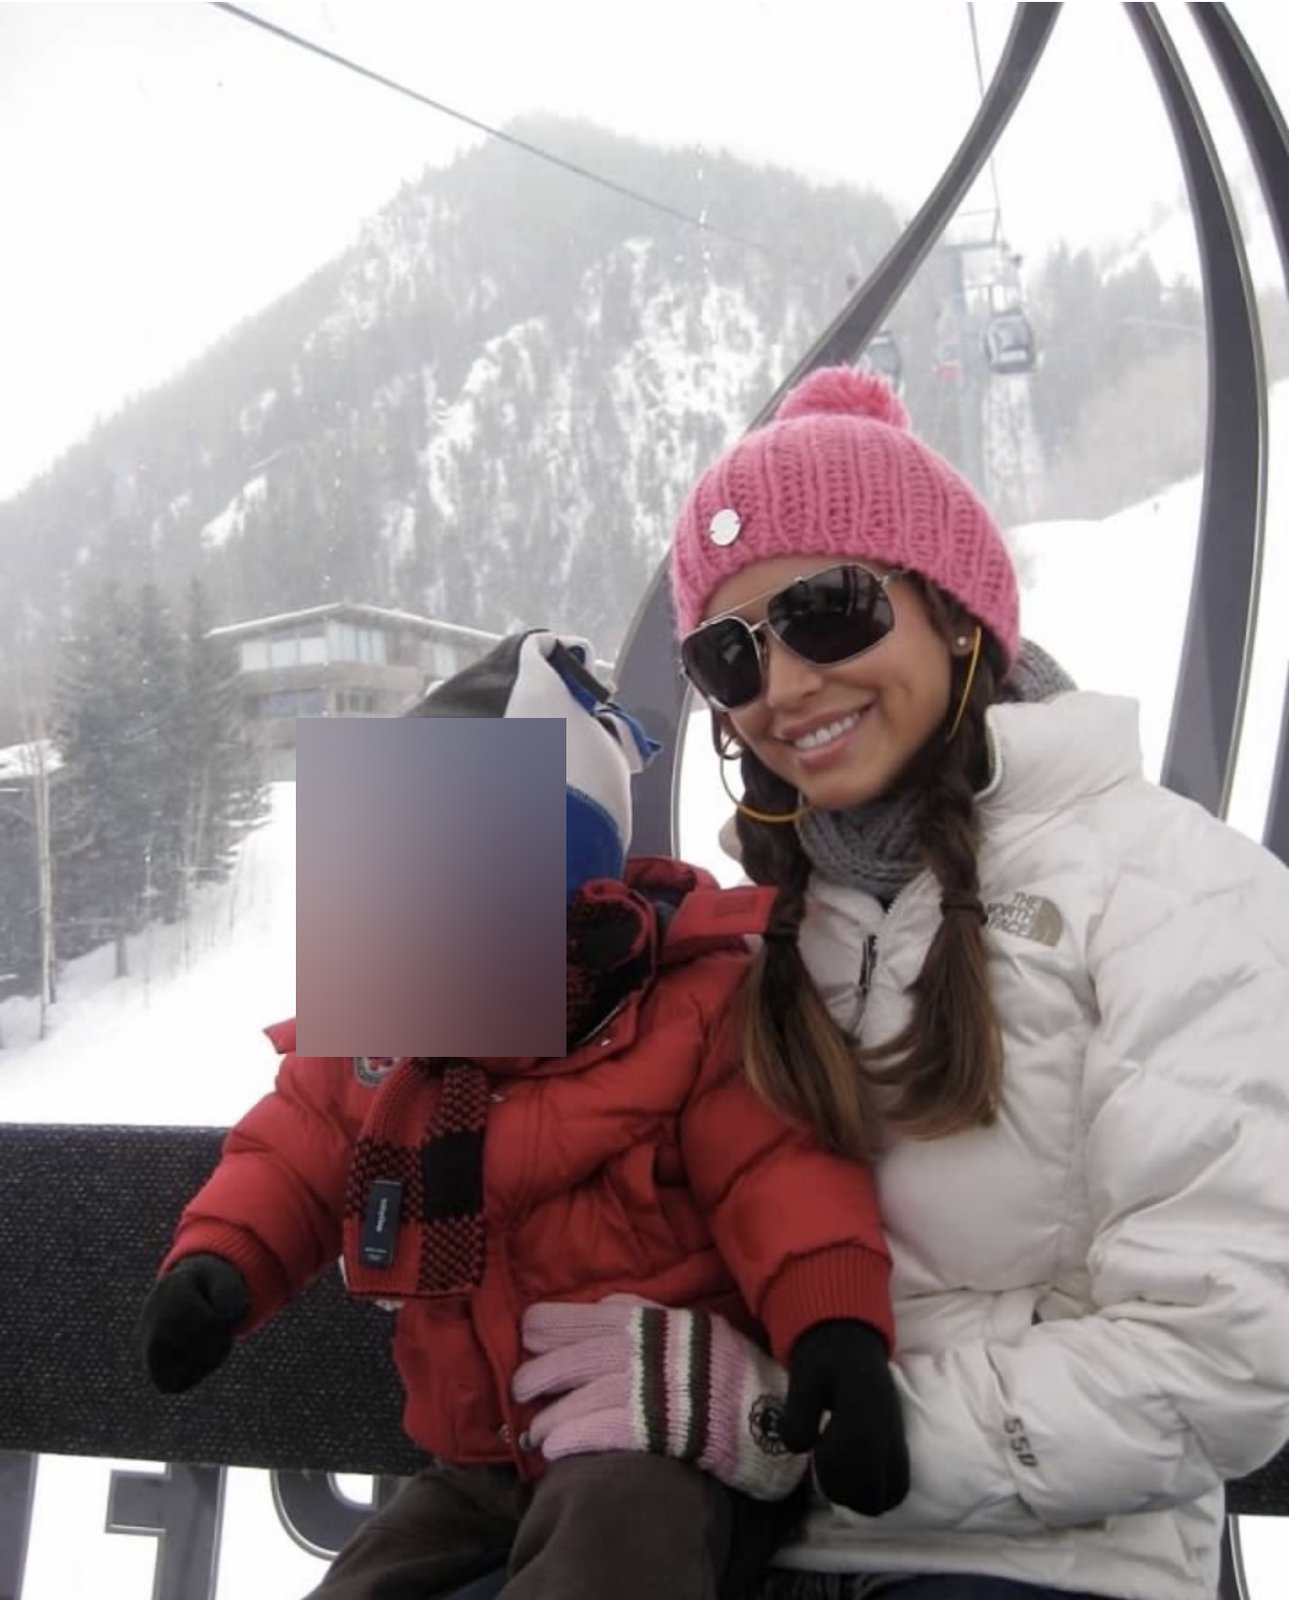
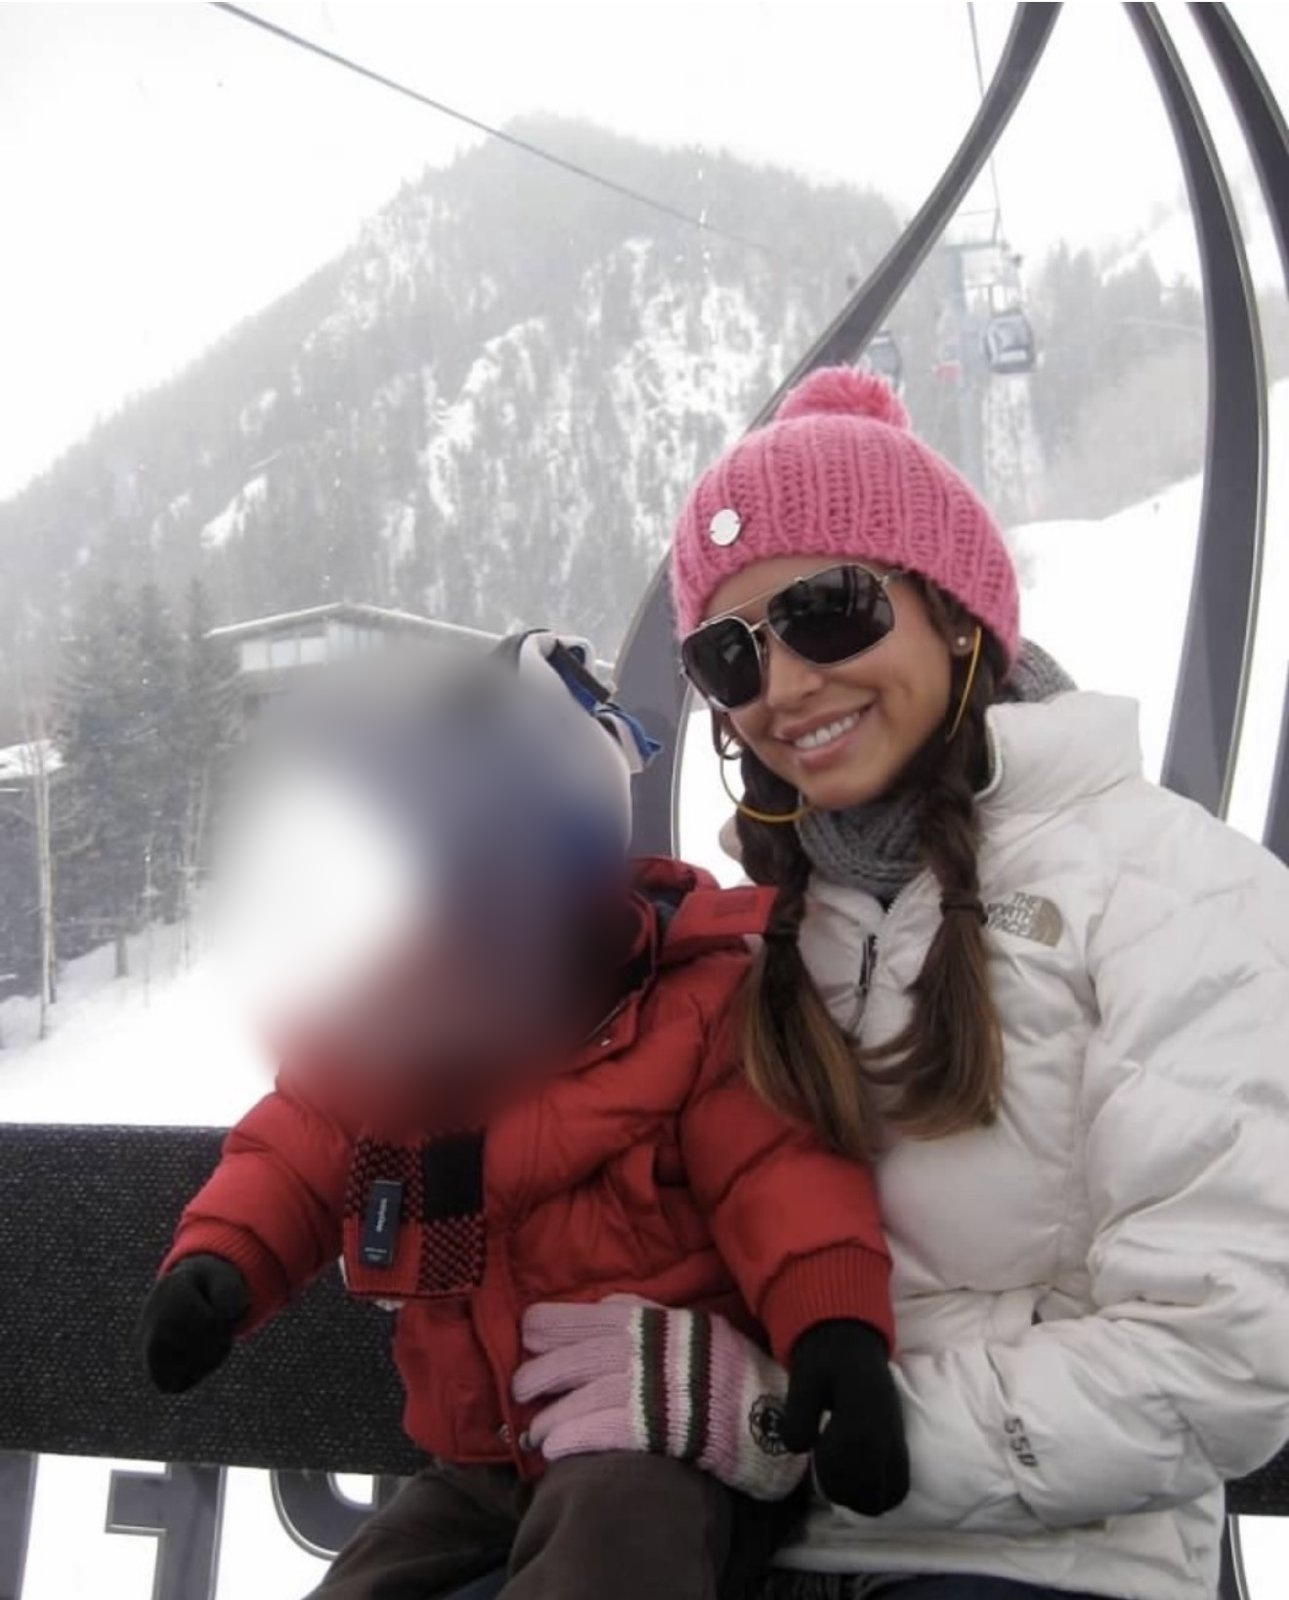
Soften the blur on the children's faces.
Replace the hard squares with a feathered oval on each child's face. Adults and the rest of each photo stay as they were.

Changed region(s): [[0.1862, 0.4688, 0.4344, 0.7188], [0.3103, 0.4062, 0.4965, 0.6562], [0.1552, 0.5312, 0.1862, 0.5625]]

diff --git a/docs/photo-changes-2026-11-05.md b/docs/photo-changes-2026-11-05.md
@@ -56,3 +56,20 @@ No other TikTok logo turned up on the restored slides (edges and bottoms of the 
 ## Captions
 
 Vague or wrong lines such as "Jen Walcott Archuleta", "on a red carpet" (that file is the stage seen from the crowd), "Childhelp", "With Adam", "With friends", and "Photo from Jen's personal collection" now say what is in the picture. Specific lines that were already clear (Tommy Lee, the magazine credits, the Playboy Mansion, Celebrity Fight Night, the Childhelp luncheon) were left as they were. No children's names, no school, no home city or state, no em dashes.
+
+## Soft blur on the children's faces
+
+Eight photos. Where a child's face had a hard square or a tight block, that block is now a soft oval: a Gaussian blur that feathers into the surrounding skin. The blur still hides who the child is. Adults are unchanged. Dogs, clothes, and the rest of each photo are unchanged. Git has no unblurred original of these files, so the oval replaces the block that was already in the file. Nothing was generated or painted.
+
+| File | Where it shows | Whose face |
+|---|---|---|
+| `full-house-kids-dogs.jpg` | About Me, the family asleep with the rescues | Three faces |
+| `gallery-nov3/09-rafting.jpg` | Gallery | Two children in green helmets |
+| `gallery-nov3/16-ocean-overlook.jpg` | Gallery | The toddler, and the boy in the cap. The boy in the blue shirt is turned away, so his hair is unchanged. |
+| `gallery-nov3/21-rv-family.jpg` | Gallery | Two faces |
+| `gallery-nov4/nov4-05-ski-gondola.jpg` | Gallery | The child in the gondola |
+| `gallery-nov4/nov4-06-beach-bodyboard.jpg` | Gallery | Three children |
+| `gallery-nov4/nov4-07-private-jet.jpg` | Gallery | The child by the window. The girl with the bow is turned away. |
+| `gallery-nov4/nov4-13-family-ocean.jpg` | Gallery | Three children |
+
+Left as they were: `gallery-nov3/19-private-jet.jpg` (the baby already had a soft oval), backs of heads with no face (the volcano, the ivy fountain, the mansion lawn, the camel photo), and the pajama photo (those blocks cover names on the shirts). `jen-childhood.jpg` is Jen. The asleep-with-the-rescues photo is not on the homepage. The Journal photos live in Sanity, not in these files, so they were not edited.
